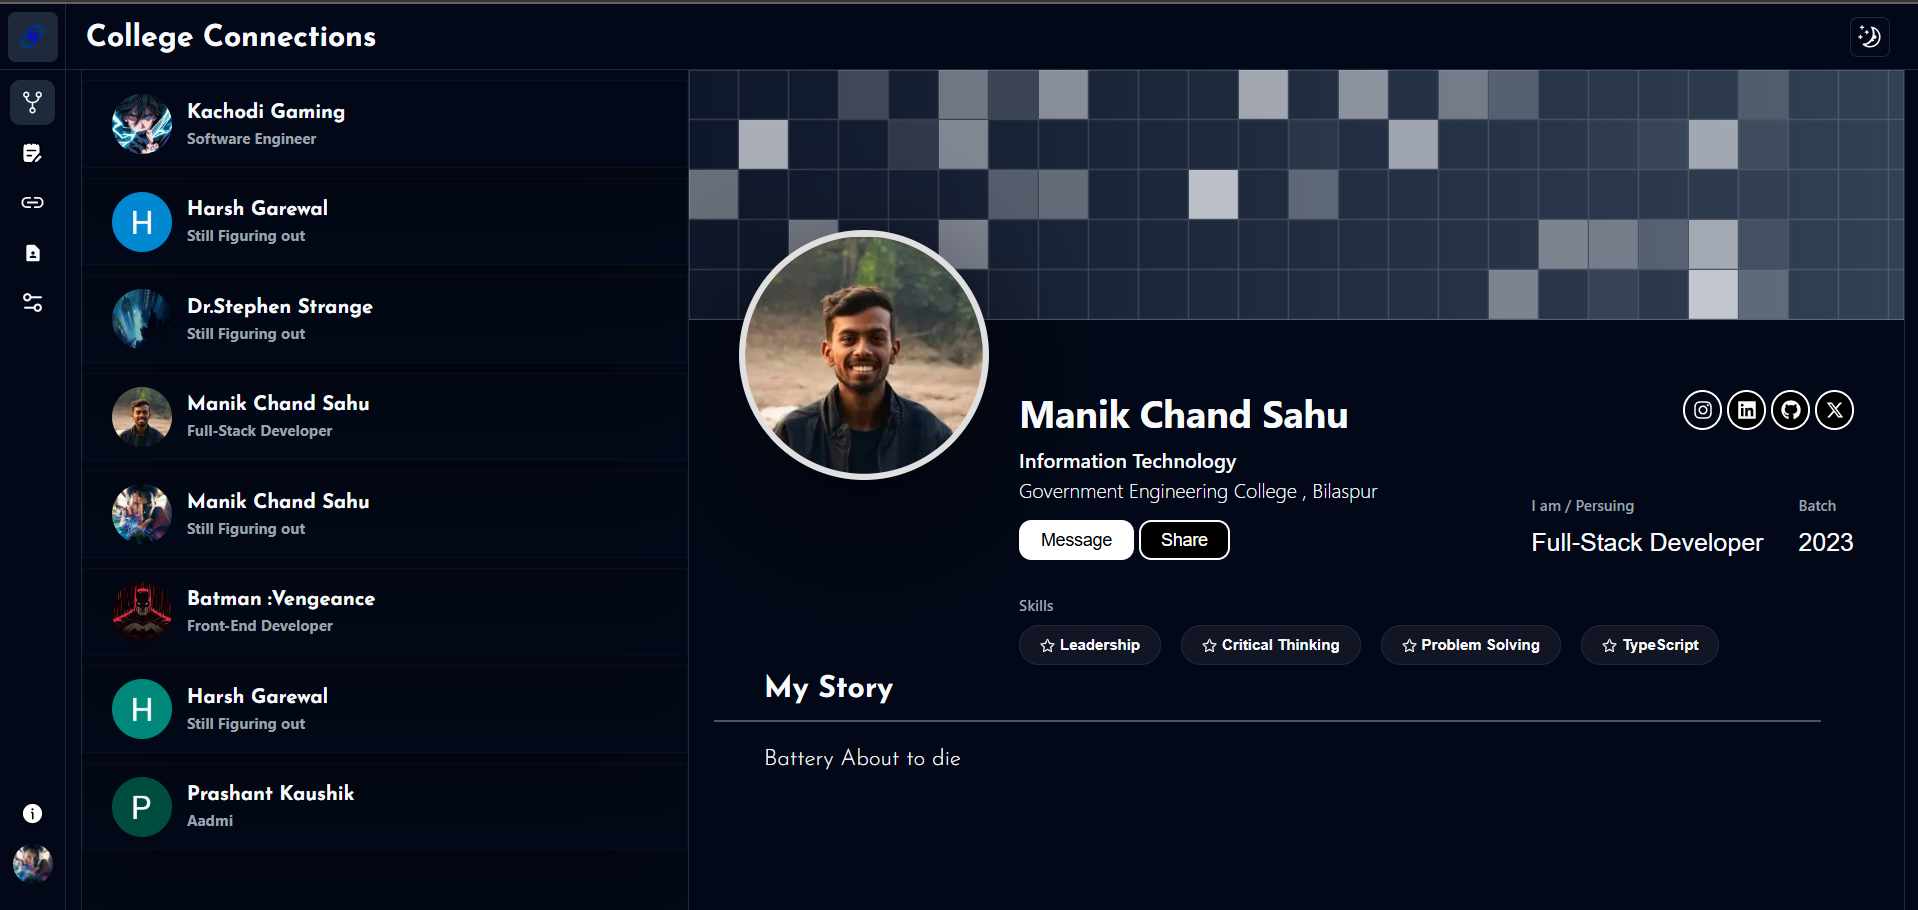
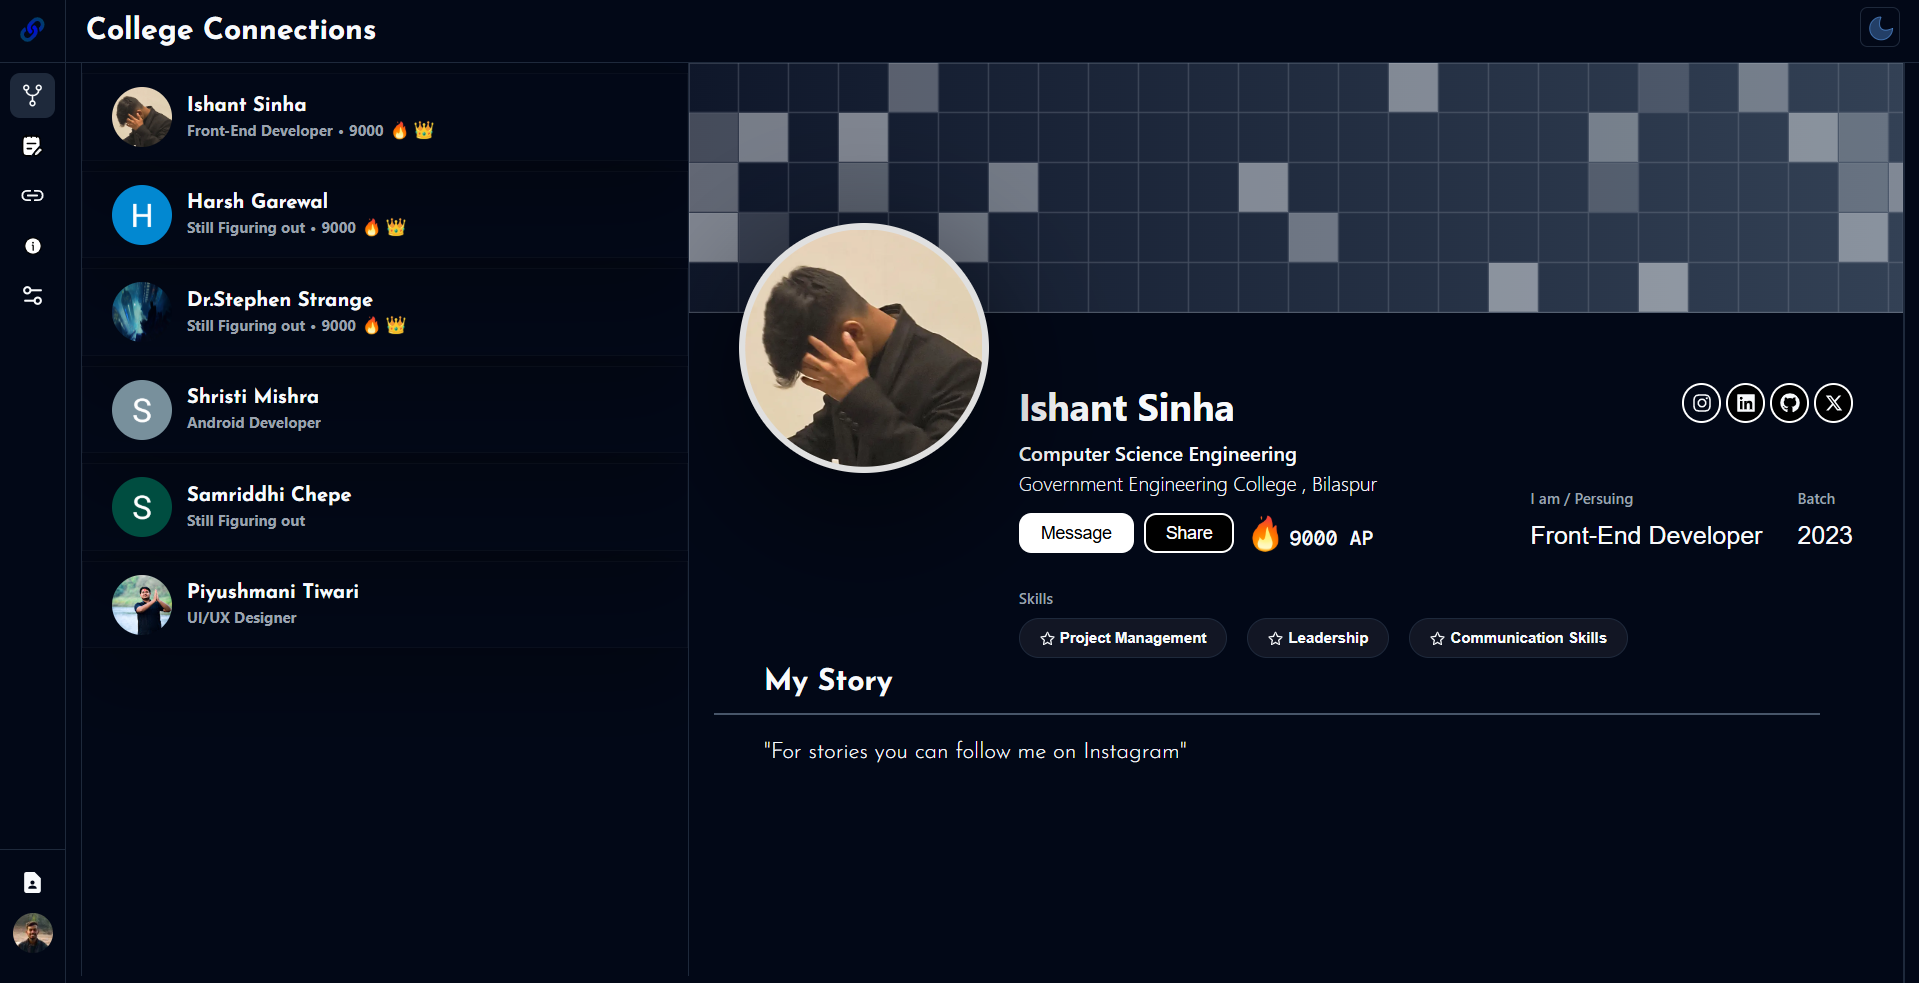
Aura points on Login

diff --git a/src/actions/onboard.ts b/src/actions/onboard.ts
@@ -29,7 +29,7 @@ export const onboard = async (values: z.infer<typeof ProfileSchema>) => {
         return { error: "User not found" }
     }
 
-    if ( await getProfile(existingUser?.id as string)) {
+    if (await getProfile(existingUser?.id as string)) {
         return { error: "Profile already exists" }
     }
 
@@ -47,11 +47,59 @@ export const onboard = async (values: z.infer<typeof ProfileSchema>) => {
         twitter: normalizeUrl(twitter, "https://x.com/"),
     };
 
+    const auraPointsForBranchs = [
+        { label: "Information Technology", value: 80 },
+        { label: "Computer Science Engineering", value: 80 },
+        { label: "Electronics and Telecommunications", value: 70 },
+        { label: "Electrical Engineering", value: 60 },
+        { label: "Mechanical Engineering", value: 60 },
+        { label: "Civil Engineering", value: 60 },
+        { label: "Mining Engineering", value: 60 },
+    ]
+
+    const auraPointsForSkills = [
+        { label: "Python", value: 25 },
+        { label: "JavaScript", value: 25 },
+        { label: "TypeScript", value: 30 },
+        { label: "Java", value: 25 },
+        { label: "C++", value: 25 },
+        { label: "C#", value: 25 },
+        { label: "Kotlin", value: 25 },
+        { value: "Leadership", label: 20 },
+        { label: "UI/UX Design", value: 30 },
+        { label: "Game Development", value: 30 },
+        { value: "Communication Skills", label: 20 },
+        { value: "Team Collaboration", label: 20 },
+        { value: "CAD Design", label: 15 },
+        { value: "MATLAB", label: 15 },
+        { value: "AutoCAD", label: 15 },
+        { value: "Artificial Intelligence", label: 30 },
+        { value: "Machine Learning", label: 30 },
+        { value: "Internet Of Things", label: 30 },
+        { value: "Blockchain", label: 30 },
+        { value: "Augmented Reality", label: 30 },
+        { value: "Virtual Reality", label: 30 },
+        { value: "3D Printing", label: 30 },
+        { value: "Big Data", label: 30 },
+        { value: "Cloud Computing", label: 30 },
+        { value: "Cybersecurity", label: 30 },
+    ]
+
+
+    const branchAura = auraPointsForBranchs.find(branch => branch.label === department)?.value || 0;
+    const skillsAura = auraPointsForSkills
+        .filter(skill => skills.includes(skill.label as string))
+        .reduce((acc, curr) => acc + Number(curr.value), 0);
+
+    const totalAura = branchAura + skillsAura;
+
 
     await db.$transaction([
         db.user.update({
             where: { id: existingUser.id },
-            data: { isFirstLogin: false }
+            data: { isFirstLogin: false ,
+                coins: totalAura
+             }
         }),
         db.profile.create({
             data: {
@@ -59,6 +107,7 @@ export const onboard = async (values: z.infer<typeof ProfileSchema>) => {
                 userId: existingUser?.id as string,
                 image: existingUser?.image as string,
                 batch,
+                coins: totalAura,
                 branch: department,
                 wannabe,
                 skills,
@@ -67,8 +116,8 @@ export const onboard = async (values: z.infer<typeof ProfileSchema>) => {
             }
         })
     ]);
-    
+
     revalidatePath("/auth/onboarding");
     revalidatePath("/profile");
-    return { success: "Profile created", message:"You Will be redireted to your profile" }
+    return { success: "Congratulations You have a Aura of ", totalAura };
 }

diff --git a/src/components/auth/onboard-form.tsx b/src/components/auth/onboard-form.tsx
@@ -22,6 +22,7 @@ import toast, { Toaster } from "react-hot-toast";
 import { FaGithub, FaInstagram, FaLinkedin, FaTwitter } from "react-icons/fa";
 import { revalidatePath } from "next/cache";
 import { useSession } from "next-auth/react";
+import { useConfettiStore } from "@/hooks/use-confetti-store";
 
 const pronouns = [
   { label: "Still Figuring out", value: "Still Figuring out" },
@@ -81,6 +82,7 @@ const branches = [
   { label: "Mechanical Engineering", value: "Mechanical Engineering" },
   { label: "Civil Engineering", value: "Civil Engineering" },
   { label: "Mining Engineering", value: "Mining Engineering" },
+  { label: "Electronics and Telecommunications", value: "Electronics and Telecommunications" },
 ] as const
 
 const batches = [
@@ -132,7 +134,6 @@ const skills = [
   { value: "ANSYS", label: "ANSYS" },
   { value: "Revit", label: "Revit" },
   { value: "SketchUp", label: "SketchUp" },
-  { value: "MATLAB", label: "MATLAB" },
   { value: "ArchiCAD", label: "ArchiCAD" },
   { value: "Primavera", label: "Primavera" },
   { value: "Microsoft Project", label: "Microsoft Project" },
@@ -220,6 +221,7 @@ export default function OnboardForm({ user }: UserProps) {
   const [isPending, startTransition] = React.useTransition()
   const [open, setOpen] = React.useState(false)
   const [opened, setOpened] = React.useState(false)
+  const confetti = useConfettiStore();
 
   const onSubmit = (values: z.infer<typeof ProfileSchema>) => {
     startTransition(() => {
@@ -230,7 +232,19 @@ export default function OnboardForm({ user }: UserProps) {
           }
           if (data?.success) {
             await update();
-            toast.success(data?.success as string);
+            confetti.onOpen();
+            toast(data?.success, {
+              icon: "🎉",
+              style: {
+                  border: '1px solid #713200',
+                  padding: '16px',
+                  color: '#713200',
+              },
+              iconTheme: {
+                  primary: '#713200',
+                  secondary: '#FFFAEE',
+              },
+          })
             router.refresh();
             revalidatePath("/auth/onboarding")
             revalidatePath("/profile")
@@ -285,7 +299,7 @@ export default function OnboardForm({ user }: UserProps) {
                             </Button>
                           </FormControl>
                         </PopoverTrigger>
-                        <PopoverContent className="w-200px p-0" >
+                        <PopoverContent className="w-200px p-0" align="end" >
                           <Command>
                             {/* <CommandInput placeholder="Select Your Branch" className="h-8" /> */}
                             <CommandList>

diff --git a/src/components/auth/profile-page.tsx b/src/components/auth/profile-page.tsx
@@ -52,7 +52,7 @@ const ProfilePage = ({ user, profile }: UserProps) => {
                                             {userProfile?.name}
                                         </h3>
                                         {user?.dailyCoins && (
-                                            <Badge variant={"default"} className="flex bg-gradient-to-l from-[#f59e0b] via-[#f97316] to-[#dc2626] border-none font-geist justify-center items-center h-6 mt-2 shadow-large">
+                                            <Badge variant={"default"} className="flex bg-gradient-to-l from-[#f59e0b] via-[#f97316] to-[#dc2626] border-none font-geist justify-center items-center h-6 sm:mt-2 shadow-large w-max text-nowrap">
                                                 {user?.dailyCoins} Day Streak
                                             </Badge>
                                         )}
